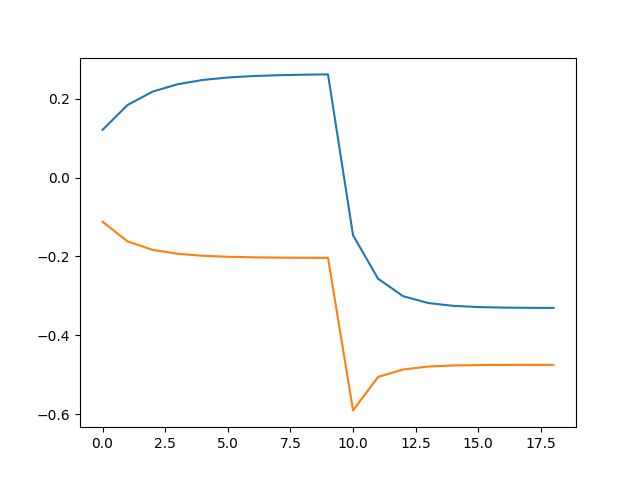
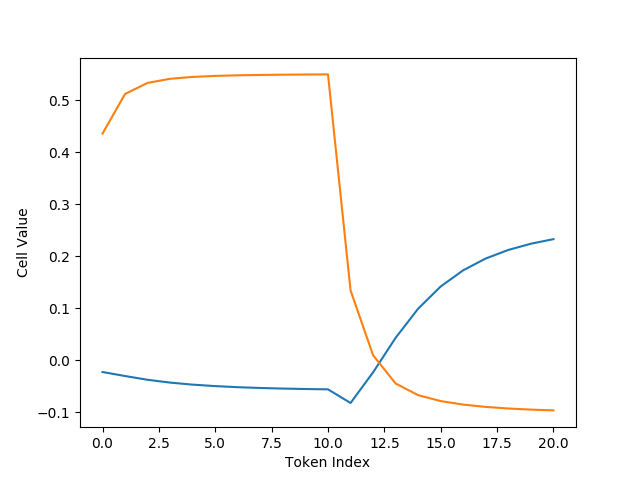
Argparse for experiment code.

diff --git a/ai2_language_model.py b/ai2_language_model.py
@@ -1,4 +1,6 @@
 from overrides import overrides
+import argparse
+import random
 
 import torch
 from allennlp.models import Model
@@ -82,43 +84,72 @@ def plot_rnn_states(predictor, sentence):
     for cell_series in cell_series_iter:
         plt.plot(cell_series)
 
+    plt.xlabel("Token Index")
+    plt.ylabel("Cell Value")
 
-def main():
-    # Counting task.
-    train_dataset = ANBNDatasetReader(5, 1000).build()
-    test_dataset = ANBNDatasetReader(2000, 2200).build()
 
-    # Reverse task.
-    # train_dataset = WWRDatasetReader(1000, 50).build()
-    # test_dataset = WWRDatasetReader(100, 100).build()
+def main(task_name="count",
+         model_name="srn",
+         rnn_dim=2,
+         no_train=False):
 
+    if task_name == "count":
+        train_dataset_reader = ANBNDatasetReader(5, 1000)
+        train_dataset = train_dataset_reader.build()
+        test_dataset = ANBNDatasetReader(2000, 2200).build()
+    elif task_name == "reverse":
+        train_dataset_reader = WWRDatasetReader(1000, 3, 20)
+        train_dataset = train_dataset_reader.build()
+        test_dataset = WWRDatasetReader(100, 100, 102).build()
     vocab = Vocabulary.from_instances(train_dataset + test_dataset)  # This is just {a, b}.
 
-    model_name = "srn-2"
-    model = LanguageModel(vocab, rnn_type=torch.nn.RNN, rnn_dim=2)
+    model = LanguageModel(vocab, rnn_type=torch.nn.GRU, rnn_dim=rnn_dim)
     optimizer = torch.optim.Adam(model.parameters())
     iterator = BucketIterator(batch_size=16, sorting_keys=[("sentence", "num_tokens")])
     iterator.index_with(vocab)
 
-    # trainer = Trainer(model=model,
-    #                   optimizer=optimizer,
-    #                   iterator=iterator,
-    #                   train_dataset=train_dataset,
-    #                   num_epochs=5,
-    #                   validation_dataset=test_dataset,
-    #                  )
-    # trainer.train()
+    filename = "%s-%d" % (model_name, rnn_dim)
+    if task_name == "reverse":
+        filename += "-reverse"
 
-    with open("models/%s.th" % model_name, "wb") as fh:
-        torch.save(model.state_dict(), fh)
+    if not no_train:
+        trainer = Trainer(model=model,
+                          optimizer=optimizer,
+                          iterator=iterator,
+                          train_dataset=train_dataset,
+                          num_epochs=5,
+                          validation_dataset=test_dataset,
+                         )
+        trainer.train()
+        with open("models/%s.th" % filename, "wb") as fh:
+            torch.save(model.state_dict(), fh)
 
-    model.load_state_dict(torch.load("models/%s.th" % model_name))
+    model.load_state_dict(torch.load("models/%s.th" % filename))
 
-    predictor = LanguageModelPredictor(model, ANBNDatasetReader(1, 1))
-    n = 10
-    sentence = " ".join(["a" for _ in range(n)] + ["b" for _ in range(n)])
+    n = 11
+    if task_name == "count":
+        sentence = " ".join(["a" for _ in range(n)] + ["b" for _ in range(n)])
+    elif task_name == "reverse":
+        random.seed(2)
+        tokens = train_dataset_reader.get_random_tokens()
+        sentence = " ".join(tokens)
+    predictor = LanguageModelPredictor(model, train_dataset_reader)    
     plot_rnn_states(predictor, sentence)
-    plt.savefig("plots/%s.png" % model_name)
+    plt.savefig("plots/%s.png" % filename)
+
+
+def parse_args():
+    parser = argparse.ArgumentParser()
+    parser.add_argument("task", choices=["count", "reverse"])
+    parser.add_argument("model", choices=["srn", "gru", "lstm"])
+    parser.add_argument("--dim", type=int, default=2)
+    parser.add_argument("--notrain", action="store_true")
+    return parser.parse_args()
+
 
 if __name__ == "__main__":
-    main()
+    args = parse_args()
+    main(task_name=args.task,
+         model_name=args.model,
+         rnn_dim=args.dim,
+         no_train=args.notrain)

diff --git a/data_readers/wwr.py b/data_readers/wwr.py
@@ -9,23 +9,29 @@ from allennlp.data.token_indexers import SingleIdTokenIndexer
 
 class WWRDatasetReader(DatasetReader):
 
-    _TOKENS = ["a", "b"]
+    TOKENS = ["a", "b"]
 
-    def __init__(self, num_strings, string_length):
+    def __init__(self, num_strings, min_length, max_length):
         super().__init__(lazy=False)
         self._num_strings = num_strings
-        self._string_length = string_length
+        self._min_length = min_length
+        self._max_length = max_length
         self._token_indexers = {"tokens": SingleIdTokenIndexer()}
 
     def build(self):
         return self.read(None)
 
+    def get_random_tokens(self):
+        length = random.randint(self._min_length, self._max_length)
+        tokens = [random.choice(self.TOKENS)
+                  for _ in range(length)]
+        tokens.append("#")
+        tokens.extend(reversed(tokens))
+        return tokens
+
     def _read(self, options):
         for n in range(self._num_strings):
-            tokens = [random.choice(self._TOKENS)
-                      for _ in range(self._string_length)]
-            tokens.append("#")
-            tokens.extend(reversed(tokens))
+            tokens = self.get_random_tokens()
             yield self.text_to_instance(tokens)
 
     def text_to_instance(self, text):

diff --git a/README.md b/README.md
@@ -1,3 +1,9 @@
 # nn-automata
 
-Some formal language experiments from my senior thesis project: Neural Sequence Models as Automata Computations.
+This repository implements the formal language tasks that are referenced in my senior thesis/DELFOL submission.
+
+Example usage:
+
+```shell
+python3 ai2_language_model.py count srn
+```
